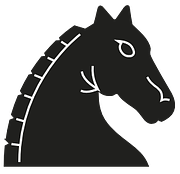
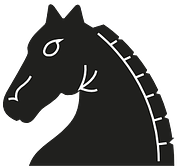
add changes

diff --git a/chess/__main__.py b/chess/__main__.py
@@ -1,5 +1,6 @@
 import arcade
 from components.pieces import Piece, Pawn, Rook, Knight, Bishop, Queen, King # Import from pieces.py
+from moves.input_handler import InputHandler
 
 SCREEN_TITLE = "Chess"
 
@@ -24,43 +25,40 @@ class MyGame(arcade.Window):
         self.board_pixel_width = board_pixel_width
         self.board_pixel_height = board_pixel_height
 
-        self.pieces = arcade.SpriteList()
+        self.all_piece_objects: list[Piece] = [] # To store Piece objects for logic
+        self.piece_sprites = arcade.SpriteList()
         self._setup_pieces()
 
     def _setup_pieces(self):
         """Initializes and places all pieces on the board."""
         # White pieces
         for col in range(BOARD_SIZE):
-            self.pieces.append(Pawn(WHITE, 1, col).sprite)
-        self.pieces.append(Rook(WHITE, 0, 0).sprite)
-        self.pieces.append(Rook(WHITE, 0, 7).sprite)
-        self.pieces.append(Knight(WHITE, 0, 1).sprite)
-        self.pieces.append(Knight(WHITE, 0, 6).sprite)
-        self.pieces.append(Bishop(WHITE, 0, 2).sprite)
-        self.pieces.append(Bishop(WHITE, 0, 5).sprite)
-        self.pieces.append(Queen(WHITE, 0, 3).sprite)
-        self.pieces.append(King(WHITE, 0, 4).sprite)
+            p = Pawn(WHITE, 1, col); self.all_piece_objects.append(p); self.piece_sprites.append(p.sprite)
+        r1 = Rook(WHITE, 0, 0); self.all_piece_objects.append(r1); self.piece_sprites.append(r1.sprite)
+        r2 = Rook(WHITE, 0, 7); self.all_piece_objects.append(r2); self.piece_sprites.append(r2.sprite)
+        n1 = Knight(WHITE, 0, 1); self.all_piece_objects.append(n1); self.piece_sprites.append(n1.sprite)
+        n2 = Knight(WHITE, 0, 6); self.all_piece_objects.append(n2); self.piece_sprites.append(n2.sprite)
+        b1 = Bishop(WHITE, 0, 2); self.all_piece_objects.append(b1); self.piece_sprites.append(b1.sprite)
+        b2 = Bishop(WHITE, 0, 5); self.all_piece_objects.append(b2); self.piece_sprites.append(b2.sprite)
+        q = Queen(WHITE, 0, 3); self.all_piece_objects.append(q); self.piece_sprites.append(q.sprite)
+        k = King(WHITE, 0, 4); self.all_piece_objects.append(k); self.piece_sprites.append(k.sprite)
 
         # Black pieces
         for col in range(BOARD_SIZE):
-            self.pieces.append(Pawn(BLACK, 6, col).sprite)
-        self.pieces.append(Rook(BLACK, 7, 0).sprite)
-        self.pieces.append(Rook(BLACK, 7, 7).sprite)
-        self.pieces.append(Knight(BLACK, 7, 1).sprite)
-        self.pieces.append(Knight(BLACK, 7, 6).sprite)
-        self.pieces.append(Bishop(BLACK, 7, 2).sprite)
-        self.pieces.append(Bishop(BLACK, 7, 5).sprite)
-        self.pieces.append(Queen(BLACK, 7, 3).sprite)
-        self.pieces.append(King(BLACK, 7, 4).sprite)
+            p = Pawn(BLACK, 6, col); self.all_piece_objects.append(p); self.piece_sprites.append(p.sprite)
+        r1_b = Rook(BLACK, 7, 0); self.all_piece_objects.append(r1_b); self.piece_sprites.append(r1_b.sprite)
+        r2_b = Rook(BLACK, 7, 7); self.all_piece_objects.append(r2_b); self.piece_sprites.append(r2_b.sprite)
+        n1_b = Knight(BLACK, 7, 1); self.all_piece_objects.append(n1_b); self.piece_sprites.append(n1_b.sprite)
+        n2_b = Knight(BLACK, 7, 6); self.all_piece_objects.append(n2_b); self.piece_sprites.append(n2_b.sprite)
+        b1_b = Bishop(BLACK, 7, 2); self.all_piece_objects.append(b1_b); self.piece_sprites.append(b1_b.sprite)
+        b2_b = Bishop(BLACK, 7, 5); self.all_piece_objects.append(b2_b); self.piece_sprites.append(b2_b.sprite)
+        q_b = Queen(BLACK, 7, 3); self.all_piece_objects.append(q_b); self.piece_sprites.append(q_b.sprite)
+        k_b = King(BLACK, 7, 4); self.all_piece_objects.append(k_b); self.piece_sprites.append(k_b.sprite)
 
     def _draw_pieces(self):
         """Draws all the pieces on the board."""
-        for piece in self.pieces:
-            # The piece.draw() method uses constants (SQUARE_SIZE, MARGIN)
-            # defined in pieces.py. Ensure these are consistent or pass
-            # them as arguments if they can vary.
-            piece.draw()
-        self.pieces.draw()
+
+        self.piece_sprites.draw()
 
     def _draw_board(self):
         """Draws the chessboard squares."""
@@ -72,7 +70,7 @@ class MyGame(arcade.Window):
                 top = (row + 1) * SQUARE_SIZE + MARGIN
 
                 if (row + col) % 2 == 0:
-                    color = arcade.color.BISTRE
+                    color = arcade.color.PICTON_BLUE
                 else:
                     color = arcade.color.BISQUE
                 arcade.draw_lrbt_rectangle_filled(left, right, bottom, top, color)
@@ -88,9 +86,10 @@ class MyGame(arcade.Window):
                             font_size=LABEL_FONT_SIZE, anchor_x="center", anchor_y="center")
 
         # Draw A-H labels above the board
-        for col in range(BOARD_SIZE):
-            label_text = chr(ord('A') + col)
-            text_x = MARGIN + col * SQUARE_SIZE + SQUARE_SIZE // 2
+        for i in range(BOARD_SIZE): # i is the column index from left (0) to right (7)
+            char_offset = (BOARD_SIZE - 1) - i
+            label_text = chr(ord('A') + char_offset)
+            text_x = MARGIN + i * SQUARE_SIZE + SQUARE_SIZE // 2 # Position based on i
             text_y = MARGIN + self.board_pixel_height + MARGIN // 2
             arcade.draw_text(label_text, text_x, text_y, LABEL_COLOR,
                             font_size=LABEL_FONT_SIZE, anchor_x="center", anchor_y="center")
@@ -105,7 +104,8 @@ class MyGame(arcade.Window):
 
         # Draw 1-8 labels to the right of the board
         for row in range(BOARD_SIZE):
-            label_text = str(row + 1)
+            # To display 8 (bottom) to 1 (top)
+            label_text = str(BOARD_SIZE - row)
             text_x = MARGIN + self.board_pixel_width + MARGIN // 2
             text_y = MARGIN + row * SQUARE_SIZE + SQUARE_SIZE // 2
             arcade.draw_text(label_text, text_x, text_y, LABEL_COLOR,
@@ -116,6 +116,10 @@ class MyGame(arcade.Window):
         self._draw_board()
         self._draw_labels()
         self._draw_pieces()
+
+    def on_mouse_press(self, x: int, y: int, button: int, modifiers: int):
+        """Called when the user presses a mouse button."""
+        self.input_handler.on_mouse_press(x, y, button, modifiers)
 
 
 def main():

diff --git a/chess/moves/input_handler.py b/chess/moves/input_handler.py
@@ -1,0 +1,64 @@
+"""
+Handles mouse input for the chess game.
+"""
+import arcade
+from ..components.pieces import Piece # For type hinting
+from moves import move_logic # To use move validation
+
+class InputHandler:
+    def __init__(self, game_instance):
+        self.game = game_instance  # Reference to the MyGame instance
+        self.selected_piece_object: Piece | None = None
+
+    def screen_to_board_coords(self, screen_x: int, screen_y: int) -> tuple[int, int] | None:
+        """Converts screen pixel coordinates to board row and column."""
+        if screen_x < self.game.MARGIN or screen_x > self.game.MARGIN + self.game.board_pixel_width or \
+        screen_y < self.game.MARGIN or screen_y > self.game.MARGIN + self.game.board_pixel_height:
+            return None  # Click was outside the board
+
+        col = (screen_x - self.game.MARGIN) // self.game.SQUARE_SIZE
+        row = (screen_y - self.game.MARGIN) // self.game.SQUARE_SIZE
+        return row, col
+
+    def get_piece_object_at_coords(self, board_row: int, board_col: int) -> Piece | None:
+        """Finds the Piece object at the given board coordinates."""
+        for piece_obj in self.game.all_piece_objects:
+            if piece_obj.row == board_row and piece_obj.col == board_col:
+                return piece_obj
+        return None
+
+    def on_mouse_press(self, x: int, y: int, button: int, modifiers: int):
+        if button == arcade.MOUSE_BUTTON_LEFT:
+            board_coords = self.screen_to_board_coords(x, y)
+            if not board_coords:
+                return # Clicked outside board
+
+            row, col = board_coords
+            clicked_piece_object = self.get_piece_object_at_coords(row, col)
+
+            if self.selected_piece_object:
+                # A piece is already selected, try to move it
+                if move_logic.is_move_valid(self.selected_piece_object, row, col,
+                                            self.game.all_piece_objects, self.game.BOARD_SIZE):
+                    # Valid move: Update piece's board position
+                    self.selected_piece_object.row = row
+                    self.selected_piece_object.col = col
+                    # Update the sprite's screen position
+                    self.selected_piece_object.update_sprite_position()
+                    print(f"Moved {self.selected_piece_object.piece_type} to ({row}, {col})")
+                else:
+                    print(f"Invalid move for {self.selected_piece_object.piece_type} to ({row}, {col})")
+                
+                # Deselect piece whether move was valid or not (for simplicity here)
+                self.selected_piece_object = None
+                # You might want to visually deselect (e.g., remove highlight)
+
+            elif clicked_piece_object:
+                # No piece selected, and clicked on a piece: select it
+                self.selected_piece_object = clicked_piece_object
+                print(f"Selected {self.selected_piece_object.piece_type} at ({row}, {col})")
+                # You might want to visually highlight the selected piece here
+            else:
+                # Clicked on an empty square and no piece selected
+                self.selected_piece_object = None # Ensure deselection
+                print("Clicked on an empty square.")

diff --git a/chess/moves/move_logic.py b/chess/moves/move_logic.py
@@ -1,0 +1,50 @@
+"""
+Handles the logic for validating chess piece moves.
+"""
+
+from components.pieces import Piece, Pawn, Rook, Knight, Bishop, Queen, King
+# You might need to import BOARD_SIZE or other constants if they are defined elsewhere
+# and not passed as arguments. For now, let's assume they might be passed or accessed
+# via a game state object.
+
+def get_piece_at_square(target_row: int, target_col: int, all_pieces: list[Piece]) -> Piece | None:
+    """Checks if a piece exists at the given board coordinates."""
+    for piece in all_pieces:
+        if piece.row == target_row and piece.col == target_col:
+            return piece
+    return None
+
+def is_move_valid(piece: Piece, new_row: int, new_col: int, all_pieces: list[Piece], board_size: int) -> bool:
+    """
+    Checks if a move is valid for a given piece.
+    This is a placeholder and needs to be expanded for each piece type.
+    """
+    if not (0 <= new_row < board_size and 0 <= new_col < board_size):
+        return False # Off the board
+
+    # Basic check: cannot move to a square occupied by a piece of the same color
+    target_piece = get_piece_at_square(new_row, new_col, all_pieces)
+    if target_piece and target_piece.color == piece.color:
+        return False
+
+    # Add specific rules for each piece type
+    if isinstance(piece, Pawn):
+        # Basic pawn move: one step forward (simplistic, no capture/double step yet)
+        direction = 1 if piece.color == "white" else -1 # Assuming white moves "up" (row increases)
+        if piece.col == new_col and new_row == piece.row + direction:
+            if not target_piece: # Can't move forward if square is occupied
+                return True
+    elif isinstance(piece, Rook):
+        # Basic rook move: horizontal or vertical (simplistic, no obstruction check yet)
+        if piece.row == new_row or piece.col == new_col:
+            return True
+    # Add elif for Knight, Bishop, Queen, King with their specific rules
+    # For example, a Knight's L-shape move:
+    elif isinstance(piece, Knight):
+        row_diff = abs(new_row - piece.row)
+        col_diff = abs(new_col - piece.col)
+        if (row_diff == 2 and col_diff == 1) or \
+        (row_diff == 1 and col_diff == 2):
+            return True
+
+    return False # Default to invalid if no rule matches or for unhandled pieces

diff --git a/chess/components/pieces.py b/chess/components/pieces.py
@@ -3,7 +3,7 @@ import os
 
 SQUARE_SIZE = 75  # Assuming this is consistent with your main game file
 MARGIN = 40
-PIECE_SCALE = 0.8
+PIECE_SCALE = 0.4
 
 WHITE = "white"
 BLACK = "black"
